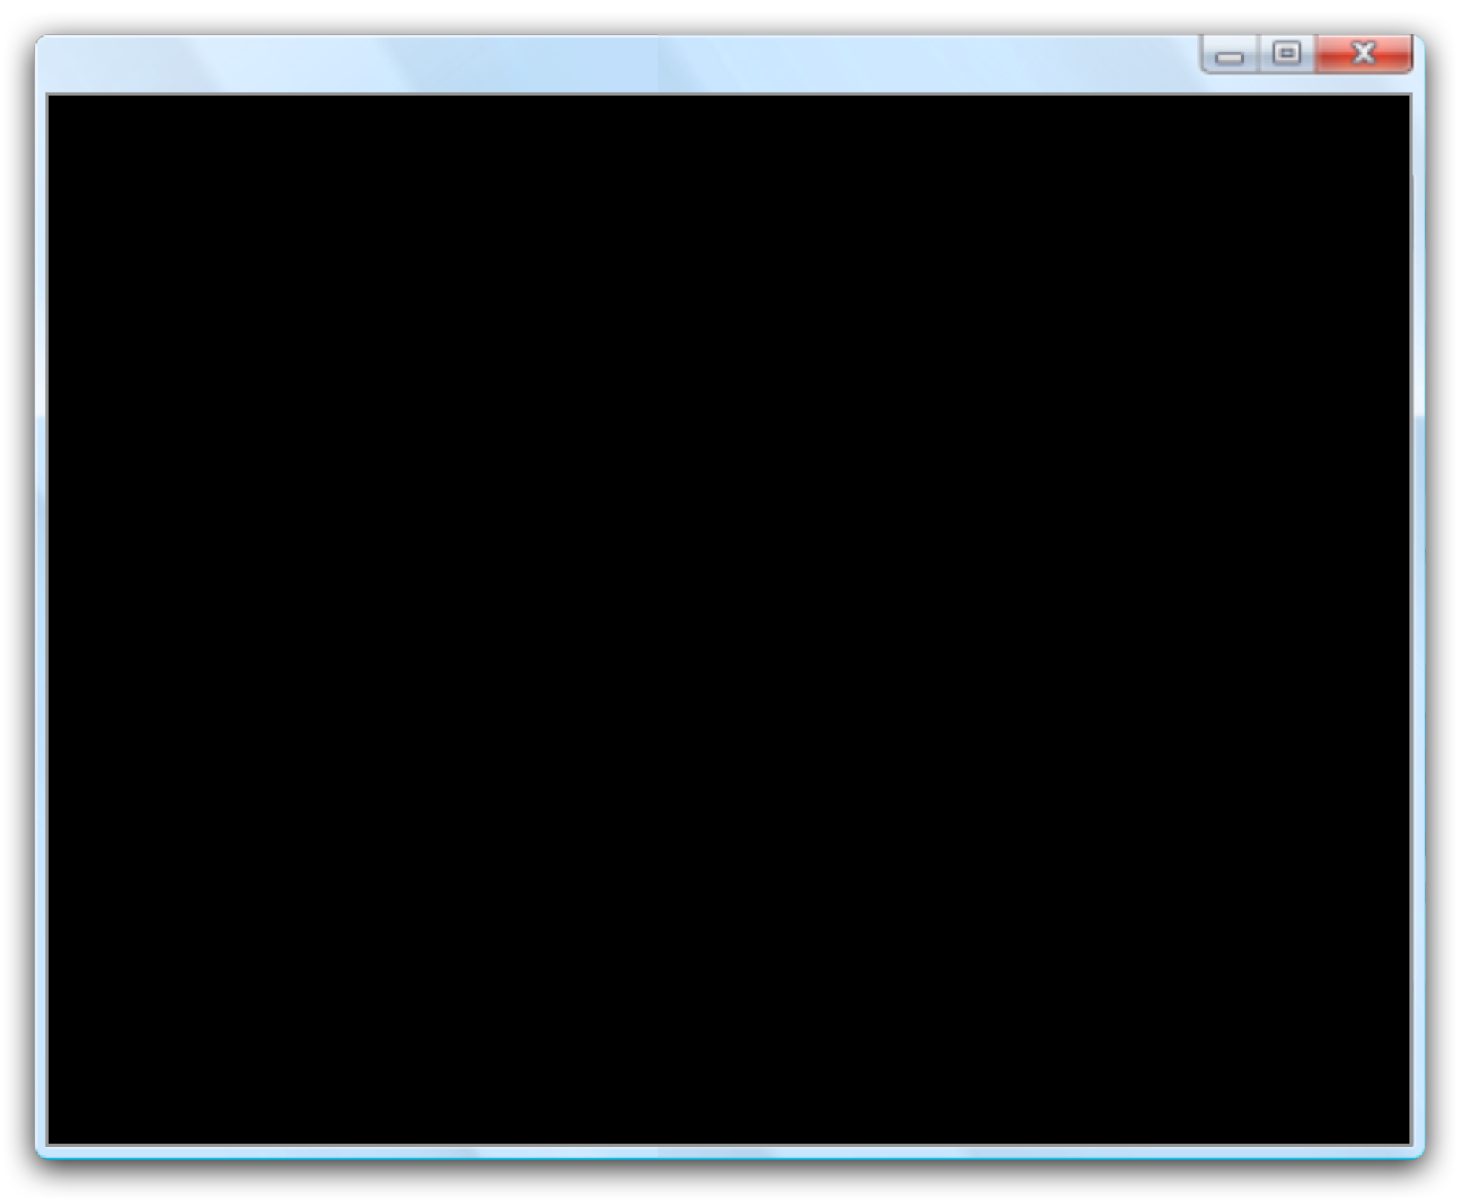
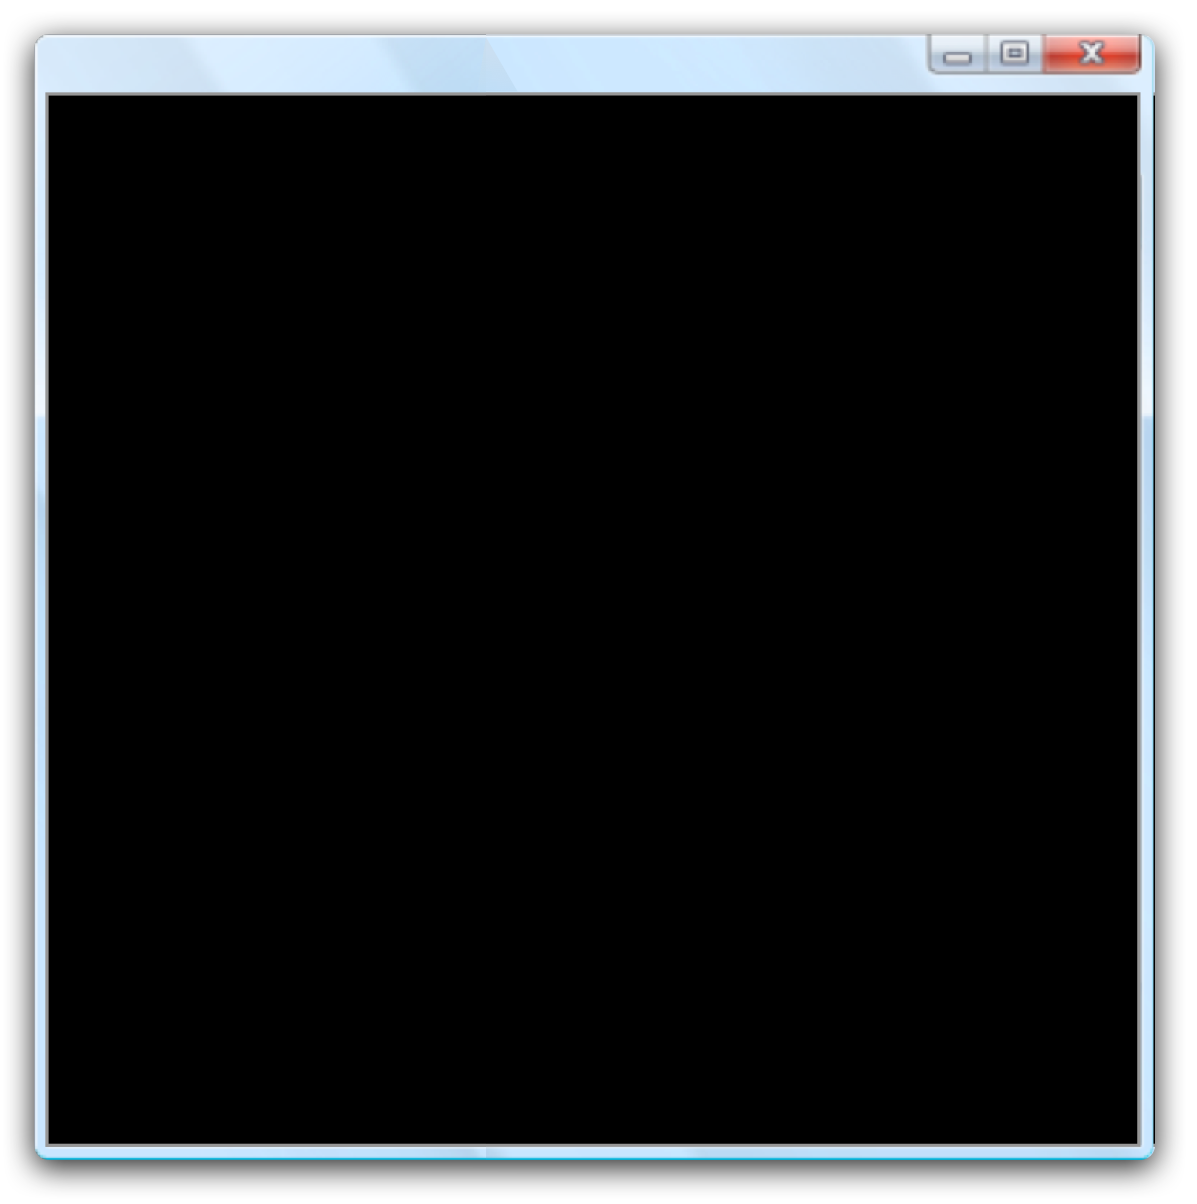
adding functionality for cmd line to trigger style transfer

Changed region(s): [[0.7728, 0.0307, 0.9891, 0.9834], [0.0, 0.0307, 0.0618, 0.9834]]

diff --git a/sketch.js b/sketch.js
@@ -40,11 +40,13 @@ let resizedContext;
 let resizedCanvas;
 
 
+var styleTransferMode = false;
+
 
 
 
 function preload() {
- 	 soundFormats('mp3');
+ 	soundFormats('mp3');
 	vista_sound = loadSound('sound/vista-sound.mp3');
 	mousedown_1 = loadSound('sound/mousedown-1.mp3');
 	mousedown_2 = loadSound('sound/mousedown-2.mp3');
@@ -126,7 +128,8 @@ function modelLoaded() {
 let updateHighDef;
 let updateIndex;
 setInterval(function() {
-		if (allStylesReady){
+		if (allStylesReady && styleTransferMode){
+
 
 
 			var currentCanvasState = JSON.stringify(canvas.toDataURL());
@@ -134,11 +137,12 @@ setInterval(function() {
 
 
 			if (currentCanvasState !== prevCanvasState){
-				console.log("CANVAS HAS CHANGED");
+				$("#textarea").addClass("activated");
+				$("#textarea").html("Transferring the style now...");
+
 				//We notice that the canvas has changed since the last interval
 				prevCanvasState = currentCanvasState;
-				if ($("#paint-UI").hasClass("visible") && $("#image-preview-container").hasClass("visible") && !$("#textarea").is(":focus") && !$("#start-menu").hasClass("visible")){
-			 		console.log("drawing state is on");
+
 			 		//Check that textbox isnt active AND paint is open
 					currentStyle = styles[currentStyleIndex];
 			 		//If we are currently drawing, use a lower resolution
@@ -164,22 +168,14 @@ setInterval(function() {
 						updateIndex =0;
 
 					}
-					// resultImage.src = image;
-					// transferImages(currentStyle); 
-				}
 
 			} else {
 
 				if (updateHighDef ==true){
 					var dimensions = ['90','110','120','130','150'];
-				    console.log("CANVAS HAS NOT CHANGED");
 					currentStyle = styles[currentStyleIndex];
 	
-						
-							
-						
 			
-					console.log("ITERATING THROUGH DIMENSION");
 					var thisDimension = dimensions[updateIndex];
 					var dimensionInt = parseInt(thisDimension);
 					resizedCanvas.height = thisDimension;
@@ -191,8 +187,10 @@ setInterval(function() {
 
 					if (updateIndex == (dimensions.length-1)){
 						updateHighDef = false;
+						$("#textarea").html("Go ahead and draw! :)");
 					}else{
 						updateIndex++;
+
 					}
 					 
 
@@ -205,6 +203,8 @@ setInterval(function() {
 
 		}
 
+			
+
 		}
 		
 
@@ -212,13 +212,11 @@ setInterval(function() {
 
 setInterval(function() {
 	//The thing switches to a new style. But we display then fade out the previous style
-	 if ($("#paint-UI").hasClass("visible") && $("#image-preview-container").hasClass("visible") && !$("#textarea").is(":focus") && !$("#start-menu").hasClass("visible")){
+	 if (styleTransferMode){
 					var image = resizedCanvas.toDataURL();
 		// var image = canvas.toDataURL();
 		resultImage.src = image;
 		transferImages(currentStyle); 
-		
-	 	// console.log("PAINT UI VISIBLE AND TEXTAREA IS NOT FOCUSED");
 		$(fadingImage).show();
 		currentStyleIndex = (currentStyleIndex+1) % stylePaths.length;
 		var currentStyleImgPath = pathsToOriginal[stylePaths[currentStyleIndex]];
@@ -233,7 +231,7 @@ setInterval(function() {
 function transferImages(style) {
 	style.transfer(document.getElementById("resultImage"), function(err, result) {
     	styledImage.src = result.src;
-    	// console.log("STYLE HAS TRANSFERED");
+    	$("#styledImage").show();
   });
 }
 
@@ -282,12 +280,9 @@ $(document).ready(function(){
 
 
 	$("#folder-icon").dblclick(function(){
-		// $("#paint-UI").show();
-		// $("#paint-UI").addClass("visible");
-		console.log("FOLDER CLICKED");
+
 		$("#photos-ui").show();
 
-		// $("#image-preview-container").show();
 	});
 
 
@@ -299,33 +294,32 @@ $(document).ready(function(){
 
 
 
-	// $("#notepad-icon").dblclick(function(){
-	// 	console.log("notepad clicked");
-	// 	$("#notepad-container").show();
-	// 	// 	new TypeIt('#textarea', {
-	// 	// 	  strings: ['Dear my 12 year old self,\n',
-	// 	// 	  'I’m very proud of you. You have done a lot even though it might not feel like it right now.',
-	// 	// 	  'Some day you’ll feel like you have to be better. But not in a self improvement way, but better in the ways that people expect you to.',
-	// 	// 	  'Don’t let you or anyone else tell you that you’re wasting your time by doing things that make you happy.',
-	// 	// 	  'You don’t need to suffer and criticize yourself in order to feel like you’re worthy.',
-	// 	// 	  'Draw what you like. Do what makes you feel like yourself. It’s hard to know, but trust your instinct.',
-	// 	// 	  'You are doing fine just the way you are. Don’t be so hard on yourself.'],
-	// 	// 	  // strings:'hello',
-	// 	// 	  speed: 50,
-	// 	// 	  autoStart: false
-	// 	// });
-	// });
-
-
 	document.body.onkeyup = function(e){
-    if(e.keyCode == 192){
-        song.play();
-    }
+		//~ / ` Key
+	    if(e.keyCode == 192){
+	        song.play();
+	    }
 
-      if(e.keyCode == 32){
-        	$("#intro").delay(100).fadeOut(600);
-	vista_sound.play();
-    }
+
+	    //Spacebar
+     	if(e.keyCode == 32){
+     		if ($("#intro").hasClass("visible")){
+     			 $("#intro").delay(100).fadeOut(600);
+	    		$("#intro").removeClass("visible");
+	    		vista_sound.play();
+     		}
+	    }
+
+
+
+	    //Enter
+     	if(e.keyCode == 13){
+     		if ($("#textarea").html()){
+
+     			//Begin style transfer
+     			styleTransferMode = true;
+     		}
+	    }
 	}
 
 	$("#fake-start-button").click(function(){
@@ -352,7 +346,7 @@ $(document).ready(function(){
 			$("#outro p").fadeIn(1000);
 			
 
-		 }, 4000);
+		 }, 7000);
 		
 		
 	});

diff --git a/style.css b/style.css
@@ -9,6 +9,14 @@ font-family: "Lucida Console";
 src: url("lucida-console.ttf");
 
 }
+
+
+/*@font-face {
+font-family: "Harabara Bold";
+src: url("css/fonts/Harabara.eot");
+}
+
+*/
   canvas {
       border: solid 2px; width:800px; 
       display:inline;
@@ -21,12 +29,15 @@ src: url("lucida-console.ttf");
       display:inline;
      z-index:5;
      pointer-events:none;
+     display:none;
   }
   #fadingImage{
+    display:none;
     position:absolute; top:0px; left:0px;
      z-index:6;
   }
   #resultImage{
+
     display:none;
   }
 
@@ -141,24 +152,57 @@ position: absolute;
 }
 
 #cmd-window{
-  width:1000px;
+  width:800px;
   z-index:2;
 }
 
 #cmd-container{
-    width: 1000px;
+    width: 800px;
     display: inline-block;
-    height: 800px;
+    height: 780px;
     position: absolute;
-    left:600px;
+    left:720px;
     top:60px;
     z-index:2;
 
 }
 
 #styledImage, #fadingImage{
-  width:700px;
-  height:700px;
+  width:600px;
+  height:600px;
+  left:0;
+  right:0;
+  top:30px;
+  margin:auto;
+}
+
+#textarea{
+  font-family: "Lucida Console";
+   position: absolute;
+    top:90px;
+    height: 28px;
+    width: 600px;
+    /*padding: 5px;*/
+    left: 0px;
+    overflow: scroll;
+    right: 0px;
+    margin: auto;
+    font-size: 28px;
+    z-index: 10;
+    color: white;
+}
+
+#textarea.activated{
+   color:#FB4AFF;
+   top:auto;
+    bottom: 40px;
+    height: 28px;
+    width: 600px;
+  
+}
+
+#textarea.activated:focus{
+   outline:none;
 }
 
   .imageContainer{

diff --git a/index.html b/index.html
@@ -46,6 +46,7 @@
 
     <div id="cmd-container">
       <img id="cmd-window" src="img/cmd-window.png">
+        <div contenteditable="true" id="textarea">>&nbsp;&nbsp;</div>
         <div class="imageContainer">
 
         
@@ -61,19 +62,13 @@
       </div>
 
 
-       <div id="notepad-container">
+<!--        <div id="notepad-container">
         <img src="img/notepad-ui.png">
-        <!-- <p id="textarea"></p> -->
-        <!-- <textarea id="textarea" rows="4" cols="50"></textarea> -->
-        <div contenteditable="true" id="textarea"></div>
+        <div contenteditable="true" id="textarea">> </div>
         
-      </div>
-    <!-- <img id="testImage" src="test.jpg"> -->
-   <!--  <button id="styleTransfer" onclick="transferImages()">transfer style</button> -->
-   <!--   <button id="erase" onclick="erase()">ERASE</button>
-     <button id="pen" onclick="pen()">DRAW</button> -->
+      </div> -->
 
-     <div id="intro"></div>
+     <div id="intro" class="visible"></div>
      <div id="outro">
       <p>
        "A collaboration with my 12 year old self"
